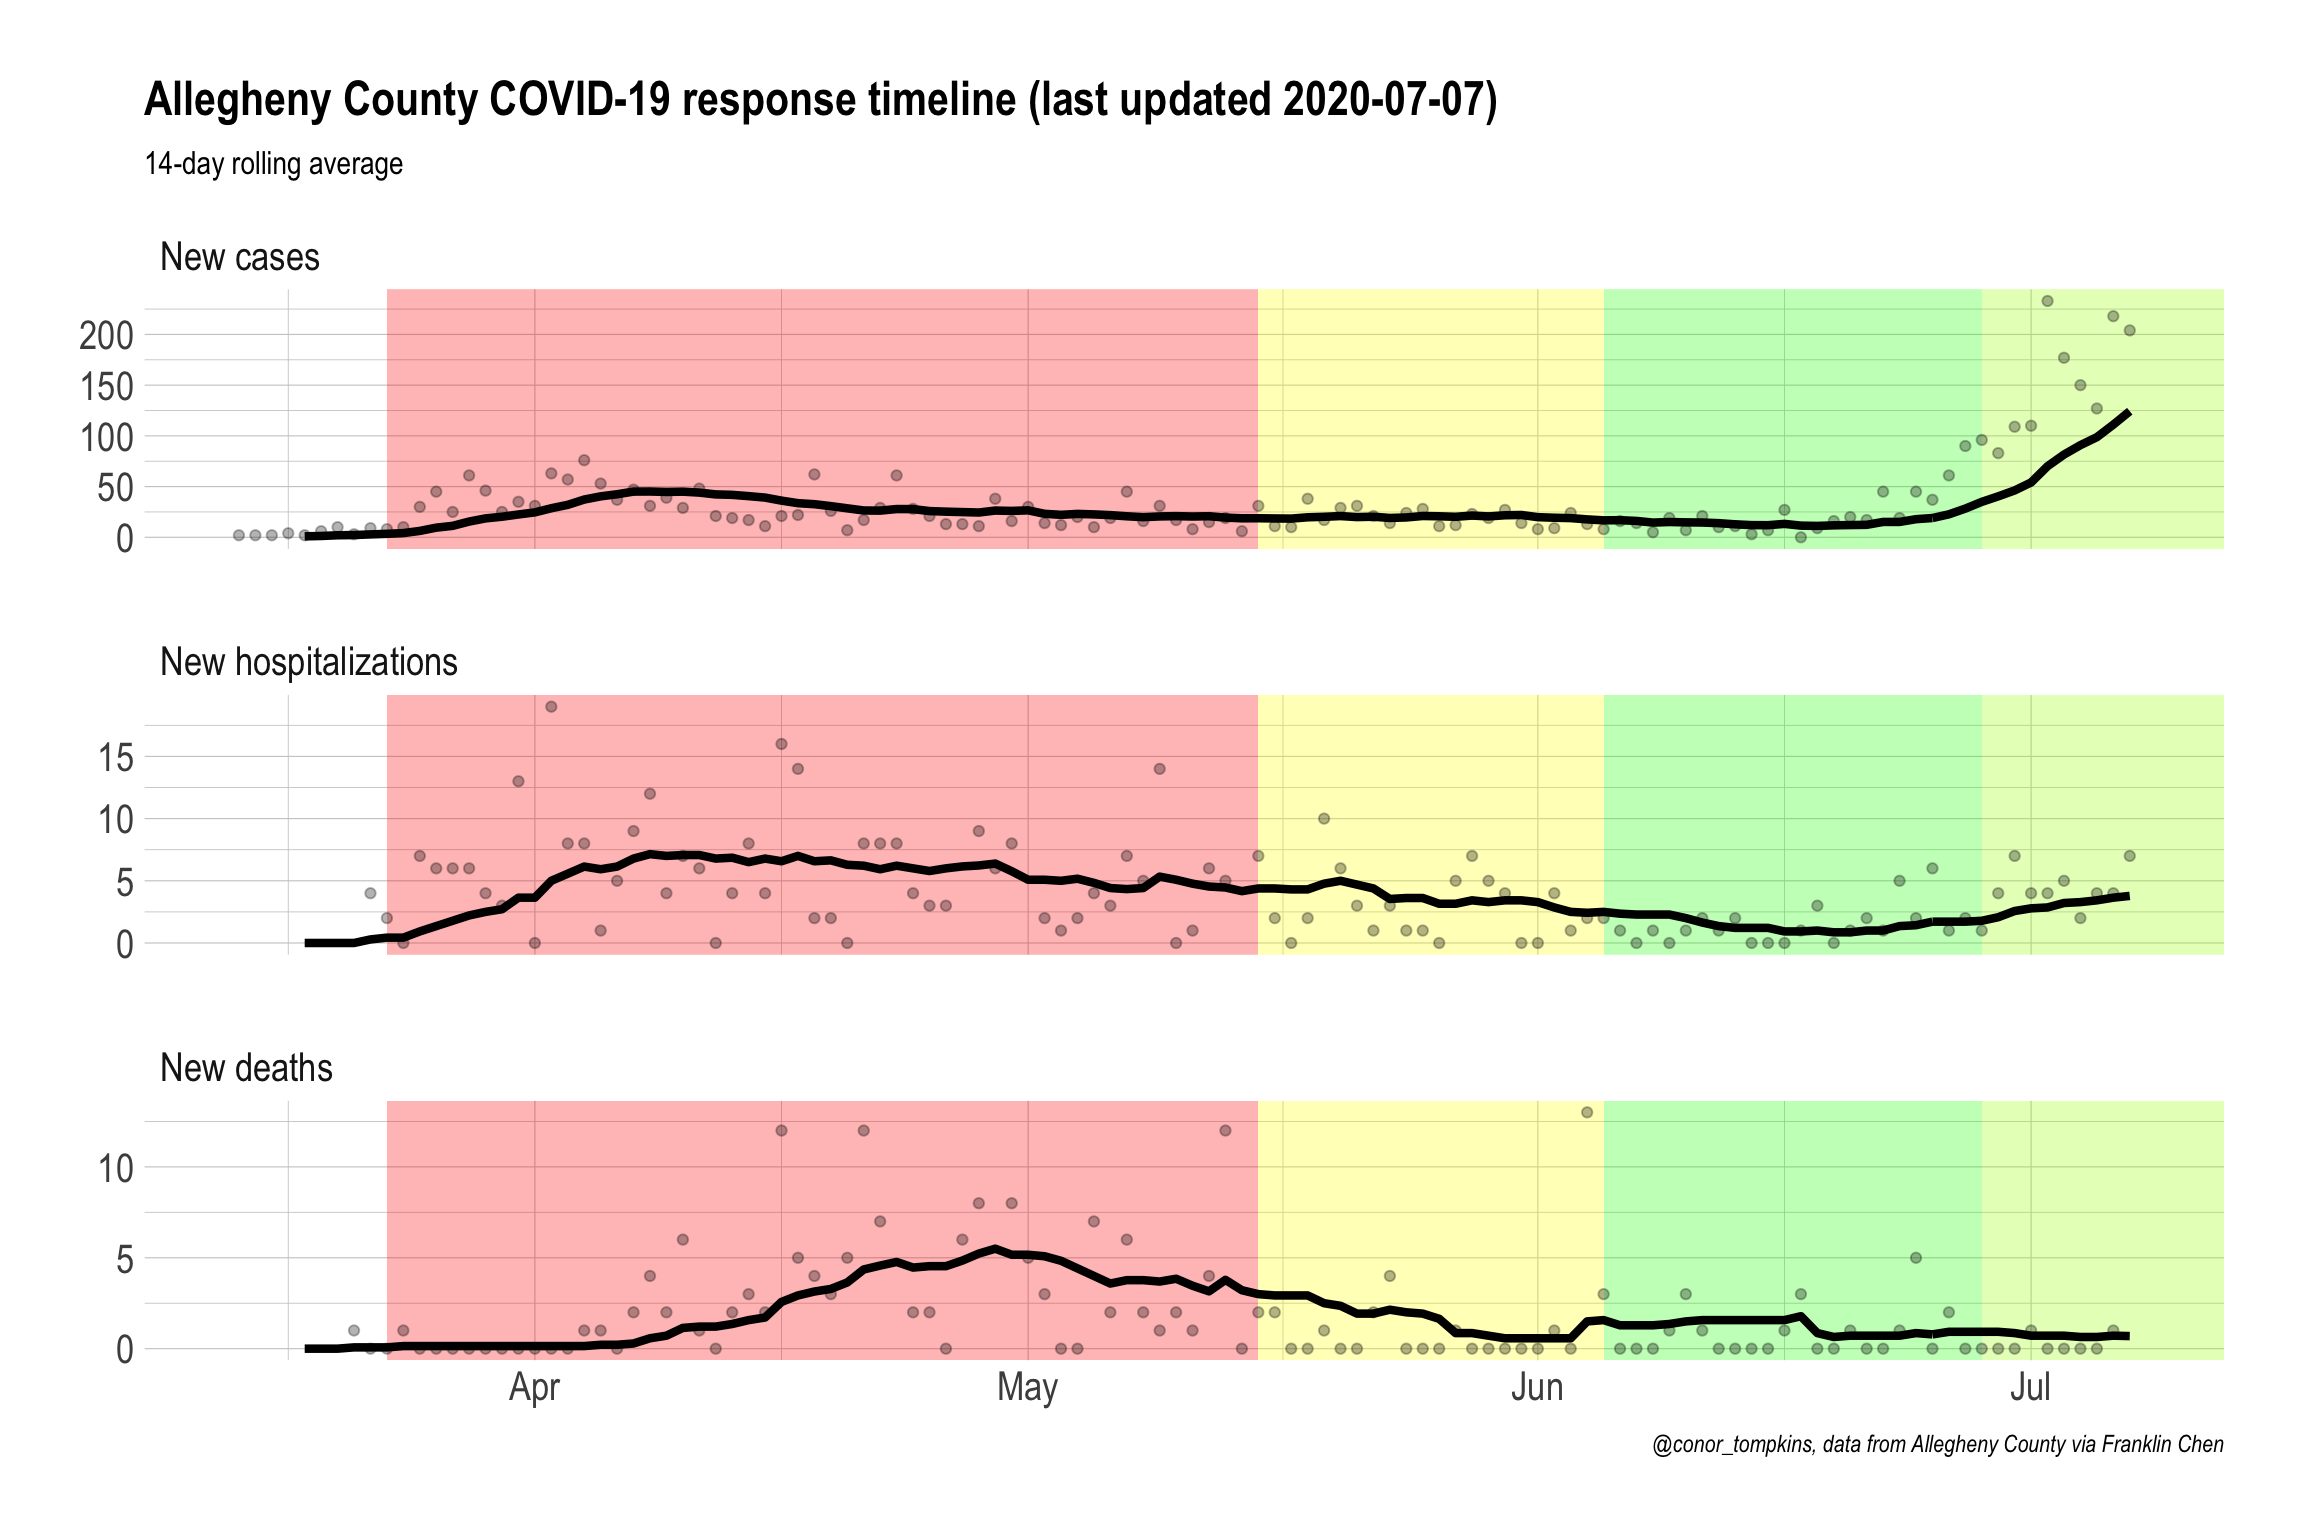
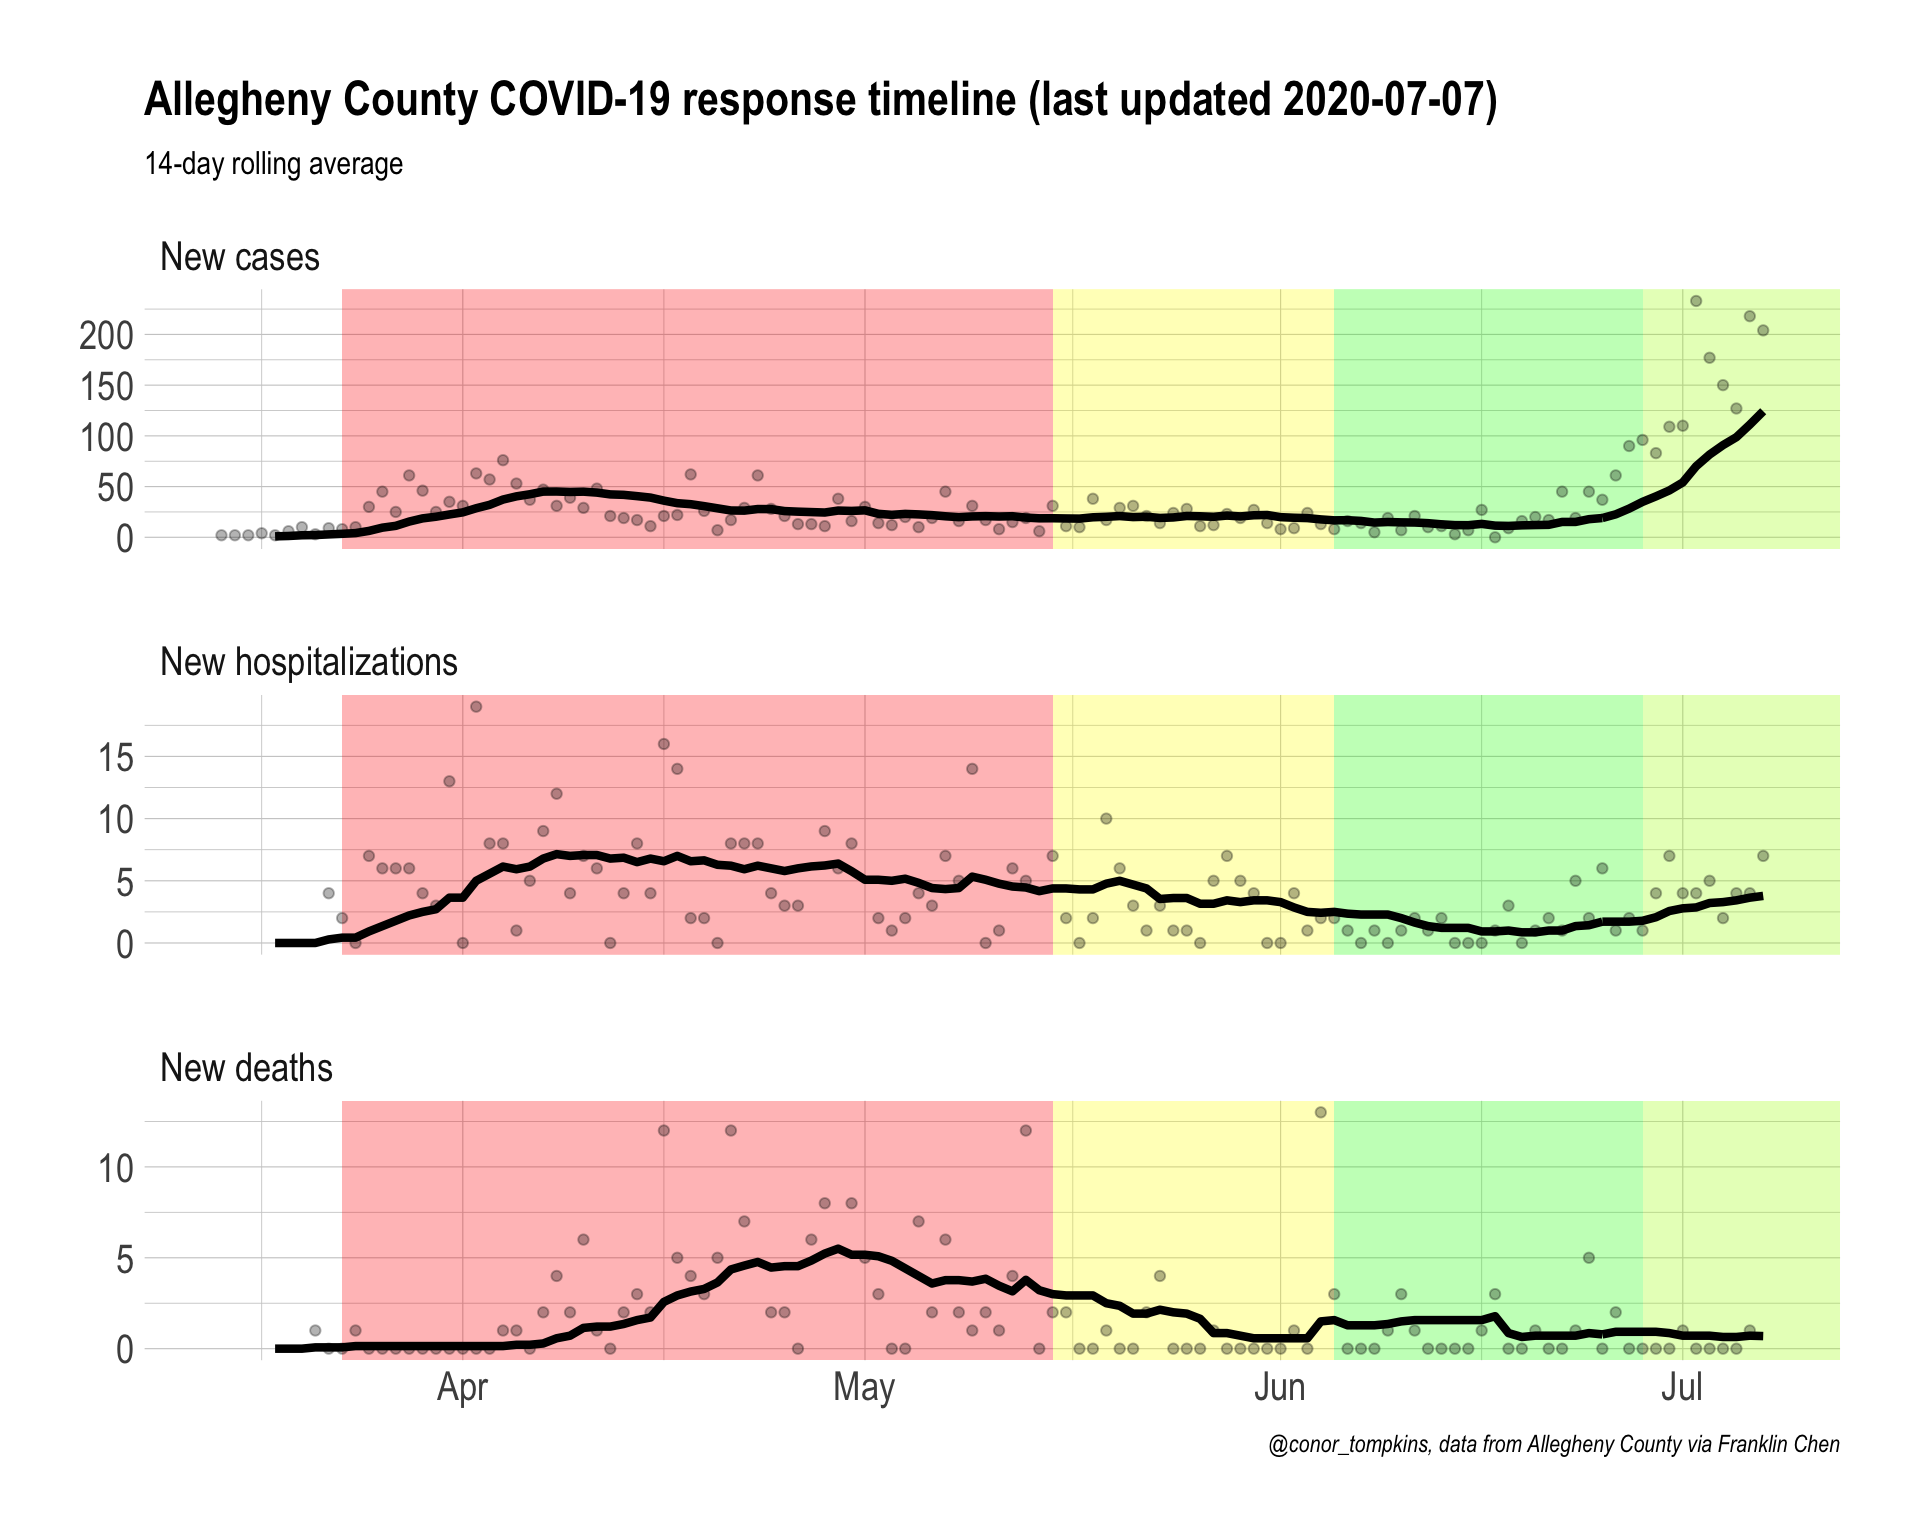
knitted rmd, served site

diff --git a/content/post/2020-07-07-graphing-allegheny-county-covid-19-data.html b/content/post/2020-07-07-graphing-allegheny-county-covid-19-data.html
@@ -225,4 +225,4 @@ allegheny_county_timeline &lt;- df_rolling %&gt;%
        caption = &quot;@conor_tompkins, data from Allegheny County via Franklin Chen&quot;)
 
 allegheny_county_timeline</code></pre>
-<p><img src="/post/2020-07-07-graphing-allegheny-county-covid-19-data_files/figure-html/unnamed-chunk-15-1.png" width="1152" /></p>
+<p><img src="/post/2020-07-07-graphing-allegheny-county-covid-19-data_files/figure-html/unnamed-chunk-15-1.png" width="960" /></p>
